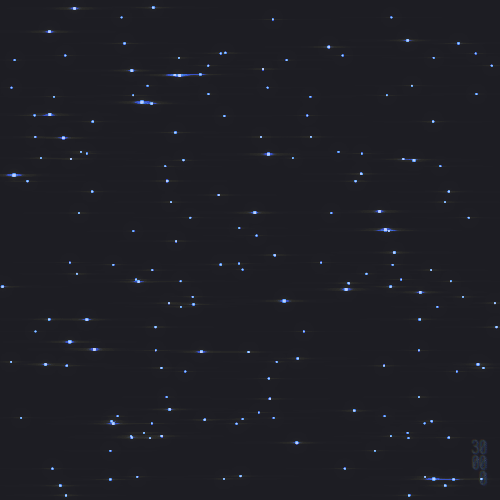
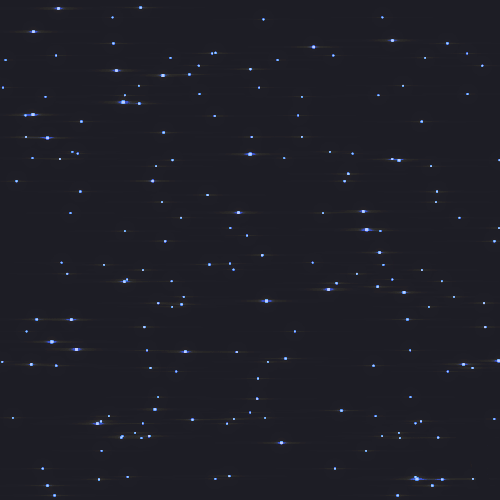
Replaced background with new scrolling space gif

diff --git a/src/game_engine.rb b/src/game_engine.rb
@@ -31,7 +31,7 @@ class GameEngine
   def update
     # Update game entities
     @frame = (@frame + 1) % 60
-    @bframe = (@bframe + 1) % 60
+    @bframe = (@bframe + 1) % 58
     if @frame >= 300 then @frame = 0 end
     if @bframe >= 300 then @bframe = 0 end
     @cat.update if @scene == Scene::MAIN
@@ -42,7 +42,7 @@ class GameEngine
       if @scene == Scene::TITLE
         @scene = Scene::MAIN
         @background_image = []
-        30.times do |i|
+        29.times do |i|
           @background_image << Gosu::Image.new("assets/images/frame_#{i}_delay-0.03s.png")
         end
       end

diff --git a/src/bullet.rb b/src/bullet.rb
@@ -21,7 +21,7 @@ class Bullet < Entity
     if @orientation == :right
       @dx = 10
     elsif @orientation == :left
-      @dx = -10
+      @dx = -20
     end
   end
 
